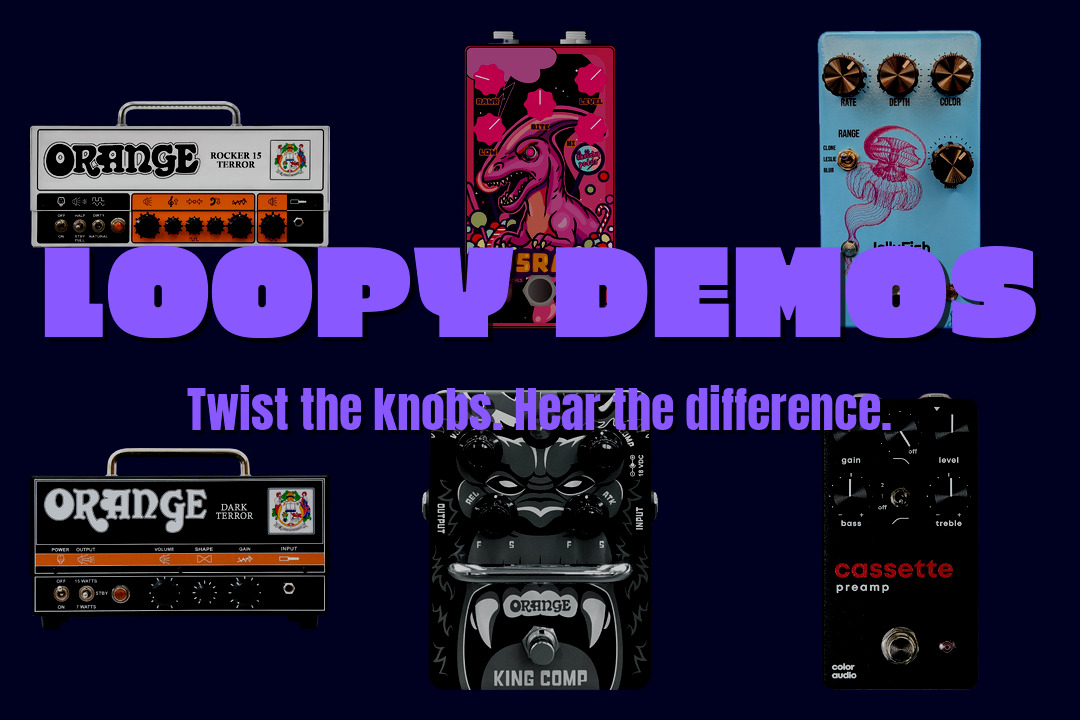
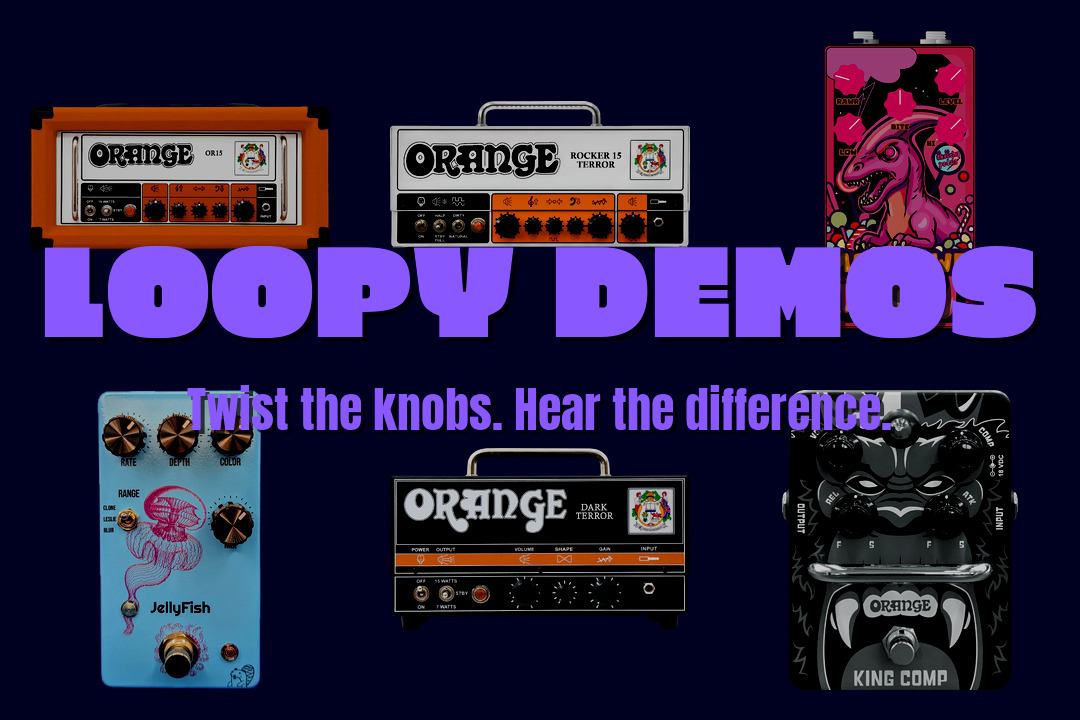
feat: add orange or15 demo (#81)

diff --git a/src/content/demos/orange-or15.md b/src/content/demos/orange-or15.md
@@ -2,20 +2,26 @@
 builder: Orange
 model: OR15
 slug: orange-or15
-type: none
+type: demo
 isSponsored: true
-date: 2025-11-04
+date: 2025-11-30
 tags:
   - british amp
   - amp head
   - valve amp
 externalLinks:
-  thomann: ...
-  builderLink: ...
-  sweetwater: ...
+  thomann: orange_or_15_h
+  builderLink: https://orangeamps.com/en-de/products/or15?_psq=or15&_v=1.0
+  sweetwater: https://sweetwater.sjv.io/MA6VxN
 ---
 
-Write some copy about the OR15 by Orange.
+The OR15 by Orange nails that classic British valve amp character in a surprisingly compact 15-watt head. This little powerhouse is based on the dirty channel from Orange's flagship Rockerverb series, packing four stages of gain that can range from sparkly cleans to full-on saturation. Despite its small size, the OR15 is one of the loudest 15-watters you'll encounter – easily filling club stages with rich power amp overdrive.
+
+What makes the OR15 special is its tube complement of 3 x 12AX7, 1 x 12AT7 preamp tubes, and 2 x EL84 power tubes running in Class A configuration. The gain structure is beautifully responsive to your playing dynamics, with clean tones that chime with British precision and overdrive that builds from gentle breakup to monstrously heavy saturation. The powerful 3-band EQ gives you plenty of tonal flexibility, while the all-valve effects loop maintains the tube character throughout your signal chain.
+
+The OR15 features Orange's signature "pics only" faceplate design – those iconic hieroglyphs with no text, echoing the brand's early history. You can switch between 15 and 7 watts for studio use, though even at lower wattage this amp has serious volume on tap. The single-channel design keeps things simple and focused, making it a perfect foundation for players who prefer to shape their sound with pedals rather than amp channels.
+
+This is an honest amp that rewards good playing and doesn't try to hide behind excessive features. While it lacks reverb and multiple channels, the OR15 excels at what it does – delivering authentic Orange tube tone with character and clarity at every gain setting. It's roughly the size of a shoebox but sounds like a much larger amp, making it ideal for anyone who needs genuine valve tone without the bulk.
 
 ### Signal Chain
 
